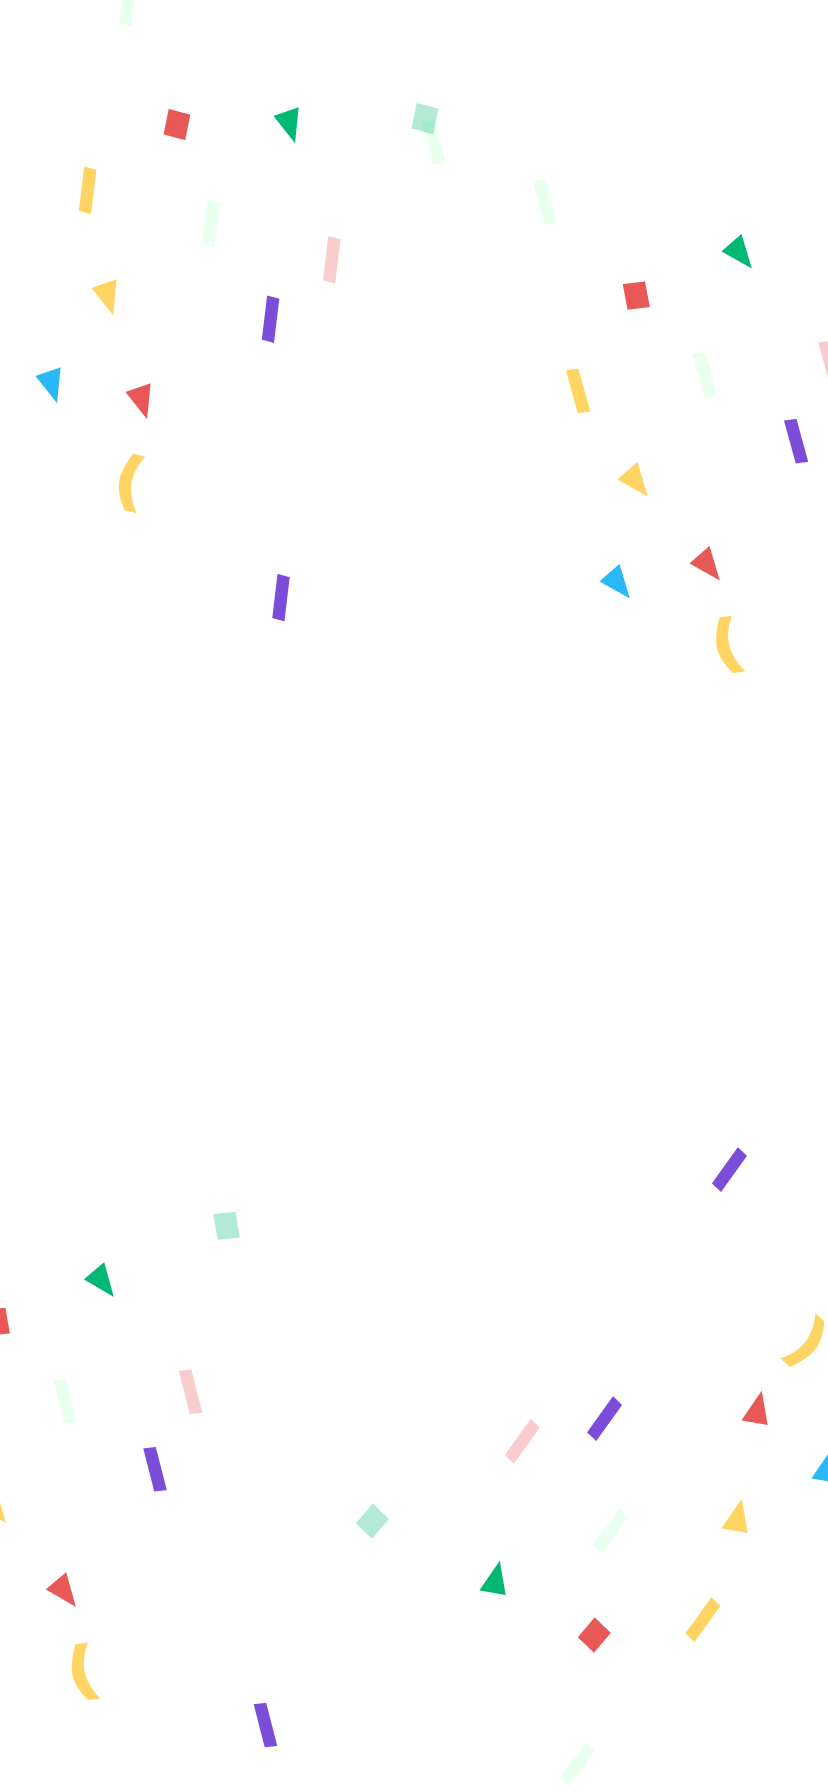
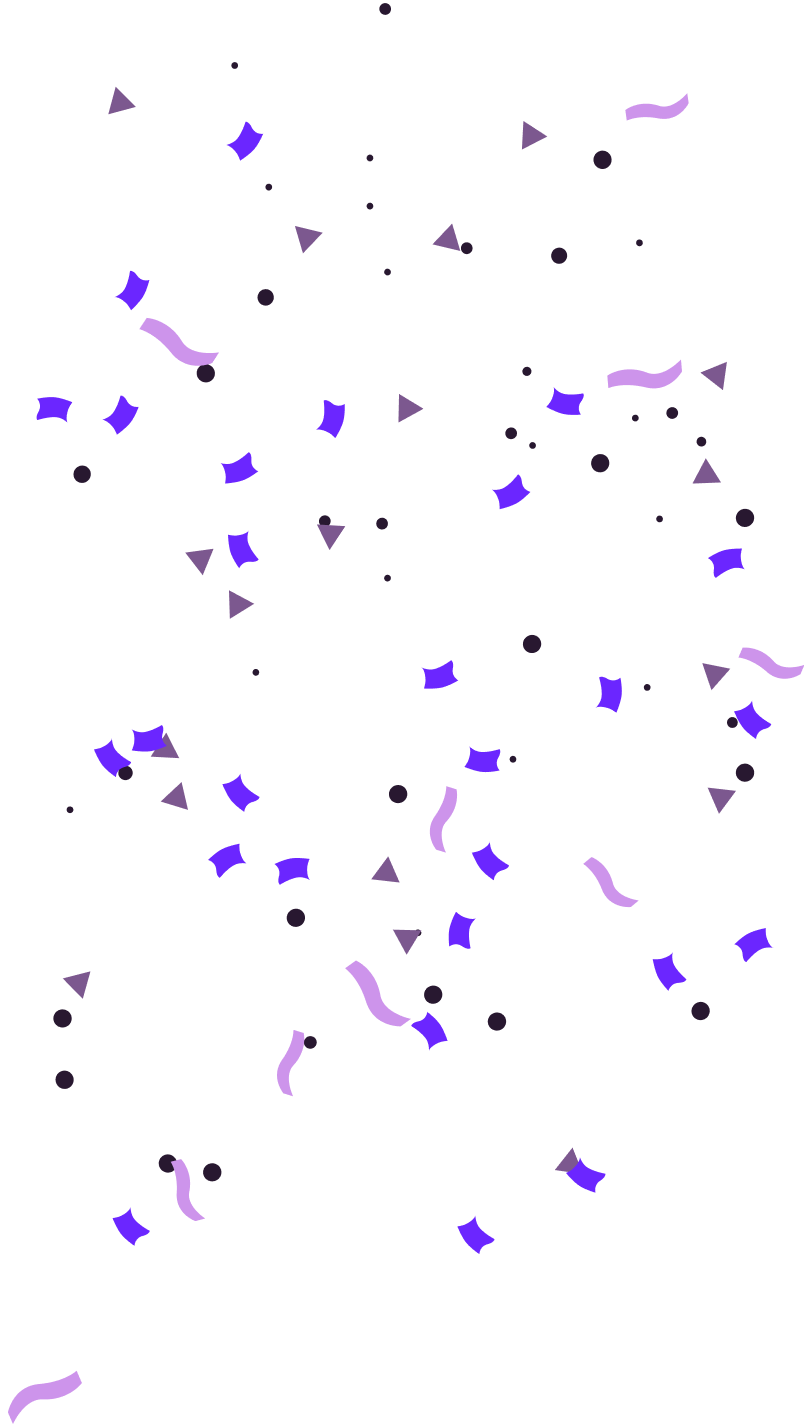
Update Signup Bonus Screen

diff --git a/screens/signup-bonus/index.js b/screens/signup-bonus/index.js
@@ -16,9 +16,16 @@ import axios from "services/axios";
 
 // Styled Component
 
-const BackgroundImage = styled.ImageBackground`
+const Wrapper = styled.View`
   width: 100%;
   height: 100%;
+`;
+
+const BackgroundConfetti = styled.Image`
+  width: 100%;
+  height: 100%;
+  top: -35%;
+  position: absolute;
 `;
 
 const InfoWrapper = styled.View`
@@ -26,14 +33,13 @@ const InfoWrapper = styled.View`
   width: 100%;
   flex-direction: column;
   justify-content: space-between;
-  align-items: center;
 `;
 
 const InfoBody = styled.View`
   flex: 1;
   flex-direction: column;
-  justify-content: center;
-  align-items: center;
+  justify-content: flex-end;
+  padding-bottom: 25px;
 `;
 
 const InfoFooter = styled.View`
@@ -85,15 +91,16 @@ export default function SignupBonus({ route, navigation }) {
 
   return (
     <Canvas>
-      {/* <BackgroundImage source={ConfettiImage} resizeMode="cover"> */}
-      <BackgroundImage>
+      <Wrapper>
+        <BackgroundConfetti source={ConfettiImage} resizeMode="cover" />
         <ConfettiCannon
+          colors={["#974EBC", "#6B26FF", "#281830", "#7C588F", "#CD94EB"]}
           count={100}
           fallSpeed={2000}
-          origin={{ x: windowWidth / 2, y: windowHeight - 100 }}
+          origin={{ x: windowWidth * 0.5, y: windowHeight - 100 }}
           fadeOut
         />
-        <Header>
+        {/* <Header>
           <TouchableOpacity
             onPress={() => {
               navigation.goBack();
@@ -101,25 +108,28 @@ export default function SignupBonus({ route, navigation }) {
           >
             <Ionicons name="ios-chevron-back" size={30} color={theme.color.primary} />
           </TouchableOpacity>
-        </Header>
+        </Header> */}
         <Container style={{ flex: 1 }}>
           <ZentTokenBanner tokens={0.01} usd={0.0} />
           <InfoWrapper>
             <InfoBody>
               <Ionicons name="gift" size={34} style={{ marginBottom: 12 }} color="white" />
-              <Text numberOfLines={1} adjustsFontSizeToFit fontSize="h2" fontWeight="bold">
-                You’ve received 0.01 ZENT
+              <Text numberOfLines={1} adjustsFontSizeToFit fontSize="32" fontWeight="bold">
+                You've earned it.
+              </Text>
+              <Text numberOfLines={1} adjustsFontSizeToFit fontSize="32" fontWeight="bold">
+                0.01 ZENT
               </Text>
               <Text fontSize="md" style={{ marginTop: 5 }}>
                 Thanks for creating an account!
               </Text>
             </InfoBody>
             <InfoFooter>
-              <Button title="Claim to wallet" block onPress={onPressClaimToWallet} />
+              <Button height="55" title="Claim" block onPress={onPressClaimToWallet} />
             </InfoFooter>
           </InfoWrapper>
         </Container>
-      </BackgroundImage>
+      </Wrapper>
     </Canvas>
   );
 }

diff --git a/components/zent-token-banner/index.js b/components/zent-token-banner/index.js
@@ -4,7 +4,7 @@ import { Image, TouchableOpacity } from "react-native";
 
 // Import Images
 import zentBackground from "assets/images/wallet/zent-bg.png";
-import zentLogo from "assets/images/zentoken-Logo.png";
+import zentLogo from "assets/logos/zent-coin.png";
 import expandVector from "assets/vectors/expand.png";
 
 // Styled Components
@@ -14,16 +14,33 @@ import expandVector from "assets/vectors/expand.png";
  * Zent Coin
  * *********
  */
-const ZentWrapper = styled.ImageBackground`
+const ParentWrapper = styled.View`
+  border-radius: 10px;
   overflow: hidden;
-  border-radius: ${(props) => props.theme.borderRadius.lg};
   width: 100%;
-  height: 225px;
-  margin-top: ${(props) => props.theme.spacing.md};
-  margin-bottom: ${(props) => props.theme.spacing.md};
+  height: 234px;
+  margin-bottom: 12px;
   justify-content: center;
   flex-direction: column;
   align-items: center;
+`;
+
+const ZentBackground = styled.Image`
+  position: absolute;
+  border-radius: 10px;
+  width: 100%;
+  top: 35px;
+  height: 225px;
+`;
+
+const ZentBackgroundBorder = styled.View`
+  position: absolute;
+  border-radius: 10px;
+  width: 100%;
+  top: 35px;
+  height: 199px;
+  border-color: rgba(0, 0, 0, 0.25);
+  border-width: 2px;
 `;
 
 const ZentExpandIconWrapper = styled.View`
@@ -35,33 +52,36 @@ const ZentExpandIconWrapper = styled.View`
 `;
 
 const ZentLogo = styled.Image`
-  width: 100px;
-  height: 100px;
+  width: 117px;
+  height: 128px;
+  position: relative;
 `;
 
 const ZentTokens = styled.Text`
-  font-size: ${(props) => props.theme.fontSize.h1};
-  color: rgba(247, 248, 250, 0.6);
+  font-size: 32px;
+  color: #fff;
   font-weight: bold;
-  margin-top: ${(props) => props.theme.spacing.md};
+  margin-top: 12px;
 `;
 
 const ZentValue = styled.Text`
-  font-size: ${(props) => props.theme.fontSize.xl};
-  color: rgba(247, 248, 250, 0.6);
+  font-size: 18.5px;
+  color: #f7f8fa;
 `;
 
 // ZentCoin Component
 export default function ZentTokenBanner({ tokens, usd, onPress = null }) {
   const Banner = (
-    <ZentWrapper source={zentBackground}>
+    <ParentWrapper>
+      <ZentBackground source={zentBackground} />
+      {/* <ZentBackgroundBorder /> */}
       {/* {onPress && <ZentExpandIconWrapper>
         <Image source={expandVector} style={{ width: 16, height: 16 }} />
       </ZentExpandIconWrapper>} */}
-      <ZentLogo source={zentLogo} />
+      <ZentLogo source={zentLogo} resizeMode="contain" />
       <ZentTokens>{tokens || 0} ZENT</ZentTokens>
-      {/* <ZentValue>{usd || 0} USD</ZentValue> */}
-    </ZentWrapper>
+      <ZentValue>{usd || 0} USD</ZentValue>
+    </ParentWrapper>
   );
 
   return onPress ? (

diff --git a/screens/refer-friends/index.js b/screens/refer-friends/index.js
@@ -8,6 +8,10 @@ import { FontAwesome } from "@expo/vector-icons";
 import { useAuth } from "stores/auth";
 import { CommonActions } from "@react-navigation/native";
 
+// Import Images
+import RewardsLogo from "assets/logos/rewards.png";
+import FriendsIcon from "assets/icons/friends.png";
+
 // Styled Component
 const InfoWrapper = styled.View`
   flex: 1;
@@ -15,6 +19,17 @@ const InfoWrapper = styled.View`
   flex-direction: column;
   justify-content: space-between;
   align-items: center;
+`;
+
+const Rewards = styled.Image`
+  width: 120px;
+  height: 30px;
+  margin-bottom: 13px;
+`;
+
+const Friends = styled.Image`
+  width: 223px;
+  height: 250px;
 `;
 
 const InfoBody = styled.View`
@@ -58,25 +73,27 @@ export default function ReferFriends({ route, navigation }) {
   return (
     <Canvas>
       <Container style={{ flex: 1 }}>
-        <ZentTokenBanner tokens={0.01} usd={0.0} />
         <InfoWrapper>
           <InfoBody>
-            <FontAwesome
-              name="user-circle-o"
-              size={34}
-              style={{ marginBottom: 12 }}
-              color="white"
-            />
-            <Text fontSize="h2" fontWeight="bold">
-              Refer a Friend
-            </Text>
-            <Text fontSize="md" style={{ marginTop: 5 }}>
-              Listen with your circle and earn more.
-            </Text>
+            <Friends source={FriendsIcon} resizeMode="contain" />
           </InfoBody>
           <InfoFooter>
+            <Rewards source={RewardsLogo} resizeMode="contain" />
+            <Text
+              numberOfLines={1}
+              adjustsFontSizeToFit
+              fontSize="36"
+              fontWeight="bold"
+              style={{ marginBottom: 12 }}
+            >
+              Earn more with friends.
+            </Text>
+            <Text numberOfLines={1} adjustsFontSizeToFit fontSize="20" style={{ marginBottom: 25 }}>
+              Listen with your circle of friends to earn more.
+            </Text>
             <Button
-              title="Invite friends"
+              height="55"
+              title="Invite Friends"
               block
               onPress={() =>
                 inviteFriend(
@@ -84,8 +101,6 @@ export default function ReferFriends({ route, navigation }) {
                 )
               }
             />
-            <Box h="10px" />
-            <Button title="Skip" variant="secondary" block onPress={onPressNavigateToNextScreen} />
           </InfoFooter>
         </InfoWrapper>
       </Container>

diff --git a/screens/auth/register.js b/screens/auth/register.js
@@ -343,7 +343,7 @@ export default function Register({ navigation }) {
 
           <TextFlex style={{ marginTop: 15 }}>
             <Text>Country</Text>
-            <Text color="secondary" style={{ marginLeft: 8 }}>
+            <Text color="description" style={{ marginLeft: 8 }}>
               Optional
             </Text>
           </TextFlex>
@@ -378,7 +378,7 @@ export default function Register({ navigation }) {
 
           <TextFlex style={{ marginTop: 15 }}>
             <Text>State/Province</Text>
-            <Text color="secondary" style={{ marginLeft: 8 }}>
+            <Text color="description" style={{ marginLeft: 8 }}>
               Optional
             </Text>
           </TextFlex>

diff --git a/components/navigation/index.js b/components/navigation/index.js
@@ -94,7 +94,7 @@ export default function Navigation() {
     <>
       <NavigationContainer>
         <Stack.Navigator
-          initialRouteName="Login"
+          initialRouteName="ReferFriends"
           screenOptions={{
             headerShown: false,
           }}

diff --git a/themes/dark.js b/themes/dark.js
@@ -11,6 +11,7 @@ const dark = {
     information: "#ABABAC",
     informationBackground: "#2E2E30",
     transparent: "rgba(0,0,0,0)",
+    description: "#8F9094",
   },
   fontSize: {
     xs: "10px",
